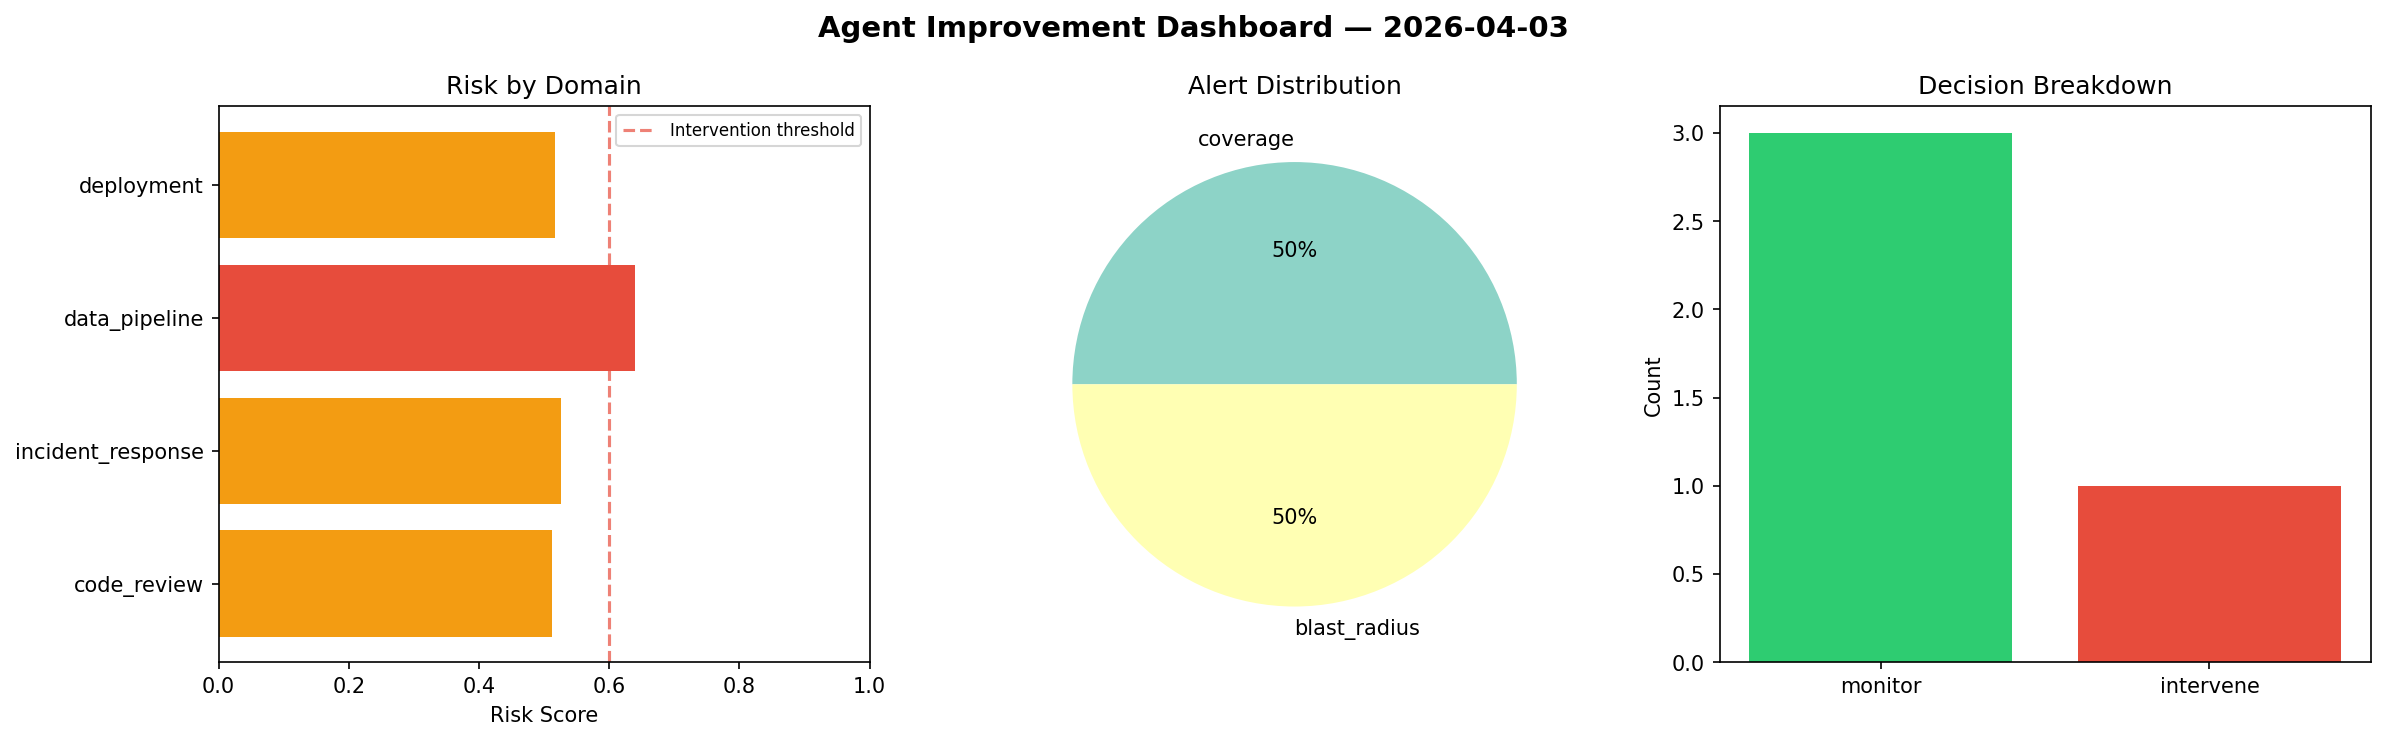
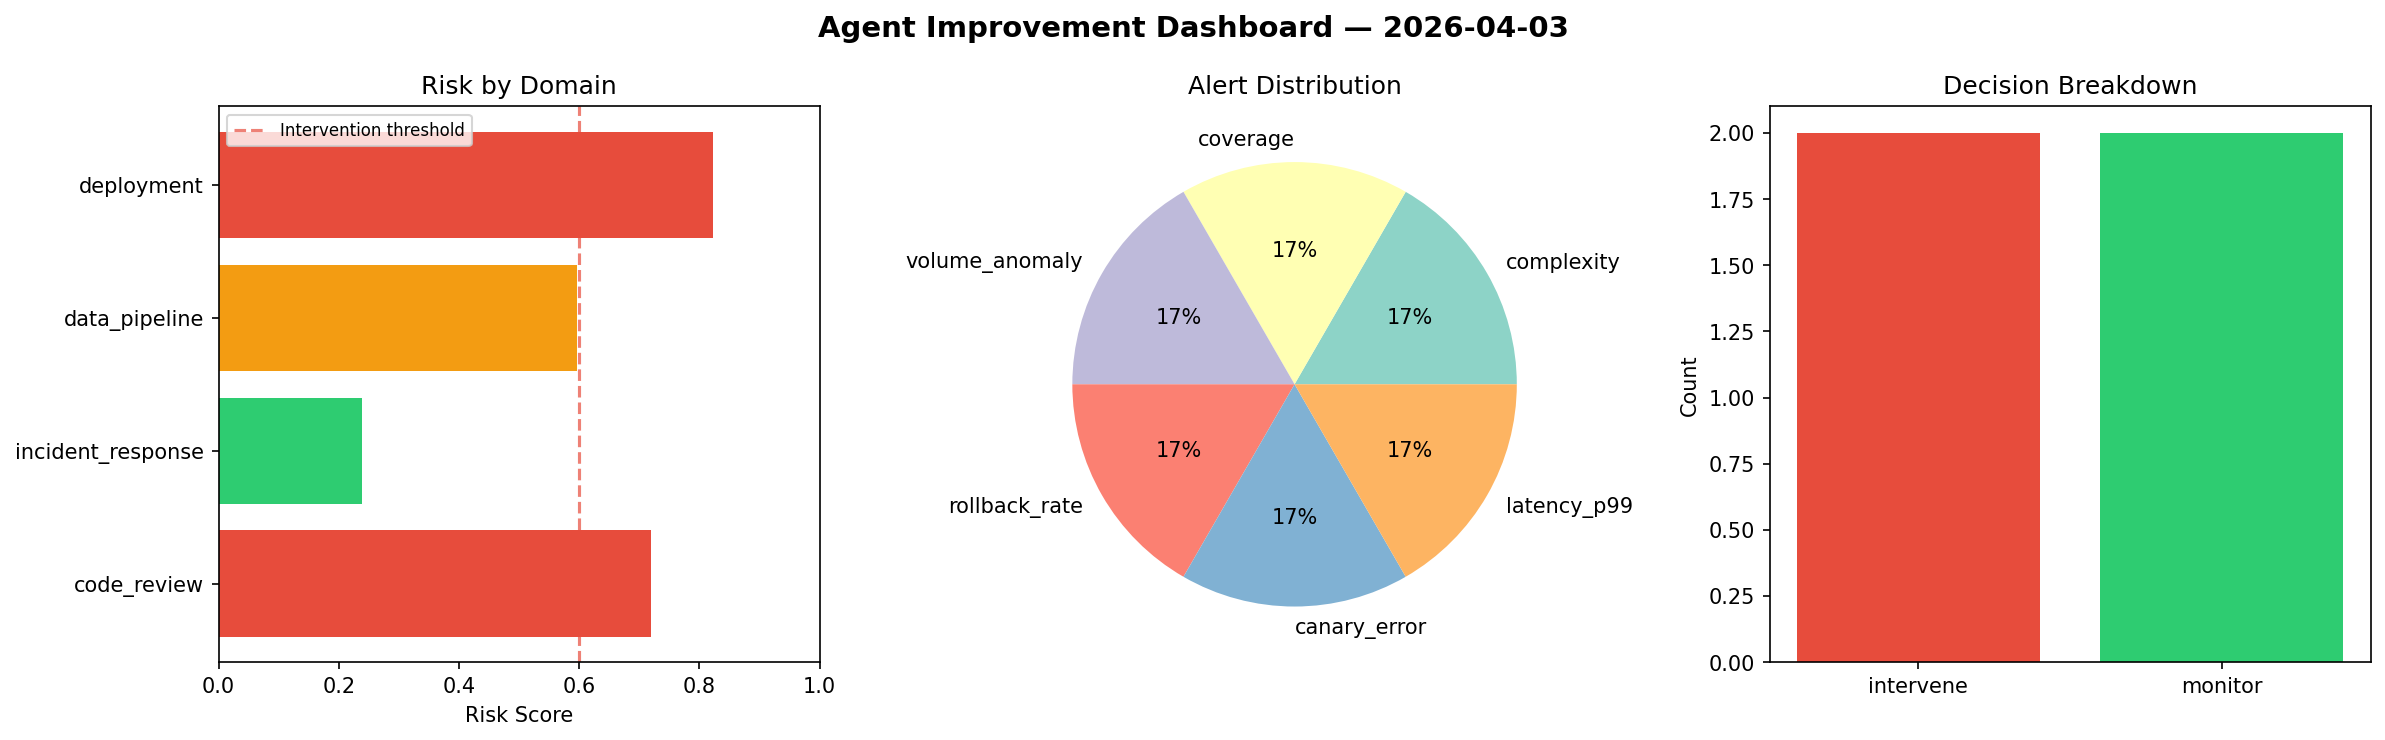
agent-improvement: daily cycle 2026-04-03T15:02

diff --git a/logs/2026-04-03.md b/logs/2026-04-03.md
@@ -1,6 +1,6 @@
 # Agent Improvement Report — 2026-04-03
 
-**Cycle ID:** `8b9da301` | **Avg Risk:** 0.5486 | **Interventions:** 1/4
+**Cycle ID:** `2b36b792` | **Avg Risk:** 0.5948 | **Interventions:** 2/4
 
 ![Dashboard](2026-04-03_dashboard.png)
 
@@ -10,18 +10,18 @@
 
 | Domain | Risk Score | Decision | Alerts |
 |--------|-----------|----------|--------|
-| code_review | 0.5124 | monitor | coverage |
-| incident_response | 0.5262 | monitor | blast_radius |
-| data_pipeline | 0.6396 | intervene | none |
-| deployment | 0.5163 | monitor | none |
+| code_review | 0.7203 | intervene | complexity, coverage |
+| incident_response | 0.2391 | monitor | none |
+| data_pipeline | 0.5971 | monitor | volume_anomaly |
+| deployment | 0.8228 | intervene | rollback_rate, canary_error, latency_p99 |
 
 ## Delta vs Yesterday
 
 | Domain | Today | Yesterday | Change |
 |--------|-------|-----------|--------|
-| code_review | 0.5124 | 0.147 | 📈 248.6% |
-| incident_response | 0.5262 | 0.4747 | 📈 10.8% |
-| data_pipeline | 0.6396 | 0.7075 | 📉 -9.6% |
-| deployment | 0.5163 | 0.652 | 📉 -20.8% |
+| code_review | 0.7203 | 0.147 | 📈 390.0% |
+| incident_response | 0.2391 | 0.4747 | 📉 -49.6% |
+| data_pipeline | 0.5971 | 0.7075 | 📉 -15.6% |
+| deployment | 0.8228 | 0.652 | 📈 26.2% |
 
 **Refinement:** `{'adjustment': 'tighten_thresholds', 'trend': 'degrading', 'window': 4}`
